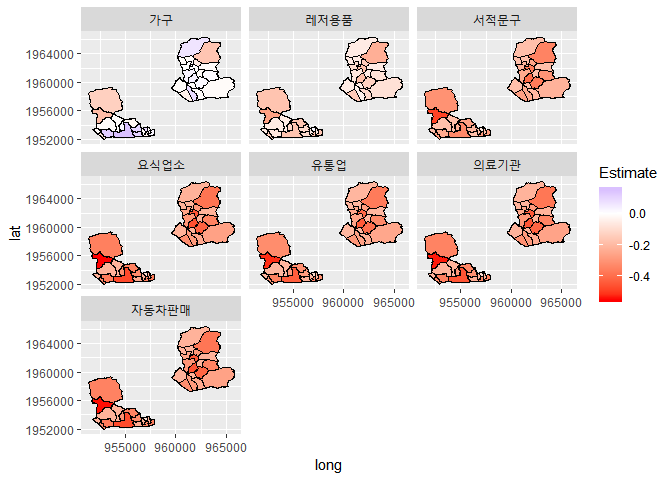
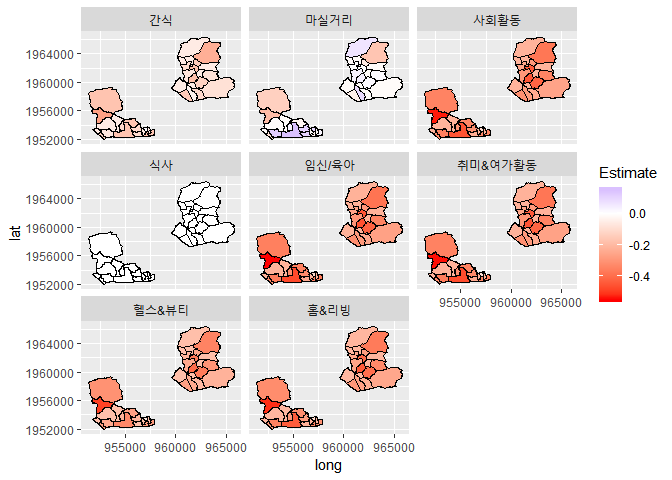
Modify Plots of GS Data

diff --git a/Inferences.md b/Inferences.md
@@ -30,6 +30,8 @@ Dist <- readRDS("Dist.rds")
 SK_Age <- readRDS("SK_Age.rds")
 SK_Time <- readRDS("SK_Time.rds")
 MCT_CAT_CD <- readRDS("MCT_CAT_CD.rds")
+Dist_Category <- readRDS("Dist_Category.rds") %>%
+  mutate(CTG_CD = as.character(CTG_CD))
 
 Holiday <- read_excel("Holiday_List.xlsx") %>%
   mutate(Date = as.character(Date))
@@ -370,6 +372,7 @@ summary_SK_Time <- summary(glm_SK_Time_Gamma_Hol_HD_CTG)$coefficients %>% data.f
 ``` r
 Week_Day_lev <- c("Fri", "Sat", "Sun", "Mon", "Tue", "Wed", "Thu")
 SK_Time_pm25_coef <- glm_SK_Time_Gamma_Hol_HD_CTG$coefficients["avg_pm25"]
+SK_Time_Hol_coef <- glm_SK_Time_Gamma_Hol_HD_CTG$coefficients["Holiday1"]
 
 SK_Time_coef <- tibble(Week_Day = rep(Week_Day_lev, each = 12), 
        pm25_CTG = rep(Dust_level,7) %>% rep(each = 2), 
@@ -394,7 +397,8 @@ SK_Time_coef %>%
     Estimate = val_Week + val_Dust + val_Hol + val_Week_Hol + val_Week_pm25 + val_pm25_Hol + 
       val_inter + SK_Time_pm25_coef * Correction) %>%
   select(Week_Day, pm25_CTG, Holiday, Estimate) %>%
-  filter(!(Holiday == "1"& Week_Day != "Sat"& Week_Day != "Sun")) %>%
+  filter(!(Holiday == "1" & Week_Day != "Sat"& Week_Day != "Sun"), 
+         !(Holiday == "0" & Week_Day %in% c("Sat", "Sun"))) %>%
   ggplot() +
   geom_line(aes(x = pm25_CTG, y = Estimate, group = Week_Day, color = Week_Day)) +
   facet_wrap(~Holiday) +
@@ -744,16 +748,13 @@ preds_gam_Dist <- mgcv::predict.gam(gam_Dist, newdata = Ref_Data, type = "terms"
 ```
 
 ``` r
-Target_MCT_CTG <- c(20, 30, 40, 50, 60, 70, 80)
-
-tibble(HDONG_CD = rep(HDong_CD$HDONG_CD, each = 23), 
-       Category = rep(MCT_CAT_CD$MCT_CD, 36), 
-       Category_NM = rep(MCT_CAT_CD$MCT_NM, 36)) %>%
+tibble(HDONG_CD = rep(HDong_CD$HDONG_CD, each = 8), 
+       Category = rep(Dist_Category$CTG_CD, 36) %>% as.character, 
+       Category_NM = rep(Dist_Category$CTG_NM, 36)) %>%
   left_join(gam_Dist_Main_Eff_HDONG, by = "HDONG_CD") %>%
   left_join(gam_Dist_Main_Eff_CTG, by = "Category") %>%
   left_join(gam_Dist_HDONG_CTG, by = c("HDONG_CD", "Category")) %>%
   left_join(HDong_CD, by = "HDONG_CD") %>% 
-  filter(Category %in% Target_MCT_CTG) %>%
   mutate_all(replace_na, 0) %>%
   mutate(Estimate = val_CTG + val_HDONG_CTG) %>%
   left_join(HDONG_map, by = "HDONG_CD") %>%
@@ -769,16 +770,16 @@ tibble(HDONG_CD = rep(HDong_CD$HDONG_CD, each = 23),
 유의미
 
 ``` r
-tibble(Category = rep(MCT_CAT_CD$MCT_CD, each = 2), 
-       Holiday = rep(c(0, 1), 23) %>% as.character) %>%
+tibble(Category = rep(Dist_Category$CTG_CD, each = 2) %>% as.character, 
+       Holiday = rep(c(0, 1), 8) %>% as.character) %>%
   left_join(gam_Dist_Main_Eff_CTG, by = "Category") %>%
   left_join(gam_Dist_Main_Eff_Hol, by = "Holiday") %>%
   left_join(gam_Dist_CTG_Hol, by = c("Category", "Holiday")) %>%
-  left_join(MCT_CAT_CD, by = c("Category" = "MCT_CD")) %>% 
+  left_join(Dist_Category, by = c("Category" = "CTG_CD")) %>% 
   mutate_all(replace_na, 0) %>%
   mutate(Estimate = val_CTG + val_Hol + val_CTG_Hol) %>%
   ggplot() +
-  geom_bar(aes(x = MCT_NM, y = Estimate, fill = Holiday), stat = "identity", position = "dodge",
+  geom_bar(aes(x = CTG_NM, y = Estimate, fill = Holiday), stat = "identity", position = "dodge",
            alpha = 0.5) +
   theme(axis.text.x = element_text(angle = 90, hjust = 1))
 ```
@@ -786,9 +787,9 @@ tibble(Category = rep(MCT_CAT_CD$MCT_CD, each = 2),
 ![](Inferences_files/figure-markdown_github/Holiday%20and%20Category-1.png)
 
 ``` r
-tibble(Category = rep(MCT_CAT_CD$MCT_CD, 12), 
-       pm25_CTG = rep(Dust_level, 23) %>% rep(each = 2), 
-       Holiday = rep(c(0, 1), 138) %>% as.character) %>%
+tibble(Category = rep(Dist_Category$CTG_CD, each = 12), 
+       pm25_CTG = rep(Dust_level, 8) %>% rep(each = 2), 
+       Holiday = rep(c(0, 1), 48) %>% as.character) %>%
   left_join(gam_Dist_Main_Eff_CTG, by = "Category") %>%
   left_join(gam_Dist_Main_Eff_pm25, by = "pm25_CTG") %>%
   left_join(gam_Dist_Main_Eff_Hol, by = "Holiday") %>%
@@ -798,11 +799,11 @@ tibble(Category = rep(MCT_CAT_CD$MCT_CD, 12),
   left_join(gam_Dist_3_inter, by = c("Category", "pm25_CTG", "Holiday")) %>%
   mutate_all(replace_na, 0) %>%
   left_join(preds_gam_Dist, by = c("pm25_CTG" = "Dust_level")) %>%
-  left_join(MCT_CAT_CD, by = c("Category" = "MCT_CD")) %>% 
+  left_join(Dist_Category, by = c("Category" = "CTG_CD")) %>% 
   mutate(Estimate = val_CTG + val_pm25 + val_Hol + val_CTG_pm25 + val_CTG_Hol + val_pm25_CTG_Hol +
            val_3_inter + avg_pm10) %>%
   ggplot() +
-  geom_line(aes(x = pm25_CTG, y = Estimate, group = MCT_NM, color = MCT_NM)) +
+  geom_line(aes(x = pm25_CTG, y = Estimate, group = CTG_NM, color = CTG_NM)) +
   theme(axis.text.x = element_text(angle = 90, hjust = 1)) +
   facet_wrap(~Holiday)
 ```
@@ -810,8 +811,8 @@ tibble(Category = rep(MCT_CAT_CD$MCT_CD, 12),
 ![](Inferences_files/figure-markdown_github/pm25_CTG%20and%20Category%20and%20Holiday-1.png)
 
 ``` r
-tibble(Category = rep(MCT_CAT_CD$MCT_CD, each = 6), 
-       Dust = rep(Dust_level, 23)) %>%
+tibble(Category = rep(Dist_Category$CTG_CD, each = 6), 
+       Dust = rep(Dust_level, 8)) %>%
   left_join(gam_Dist_Main_Eff_pm10, by = c("Dust" = "pm10_CTG")) %>%
   left_join(gam_Dist_Main_Eff_pm25, by = c("Dust" = "pm25_CTG")) %>%
   left_join(gam_Dist_Main_Eff_CTG, by = "Category") %>%
@@ -823,10 +824,10 @@ tibble(Category = rep(MCT_CAT_CD$MCT_CD, each = 6),
          Estimate_pm25 = val_pm25 + val_CTG + val_CTG_pm25 + avg_pm25) %>%
   select(Category, Dust, Estimate_pm10, Estimate_pm25) %>%
   gather(key = "Dust_Type", value = "Estimate", -Category, -Dust) %>%
-  left_join(MCT_CAT_CD, by = c("Category" = "MCT_CD")) %>% 
+  left_join(Dist_Category, by = c("Category" = "CTG_CD")) %>% 
   mutate(Dust_Type = Dust_Type %>% str_remove("Estimate_")) %>%
   ggplot() +
-  geom_line(aes(x = Dust, y = Estimate, color = MCT_NM, group = MCT_NM)) +
+  geom_line(aes(x = Dust, y = Estimate, color = CTG_NM, group = CTG_NM)) +
   theme(axis.text.x = element_text(angle = 90, hjust = 1)) +
   facet_wrap(~Dust_Type)
 ```
